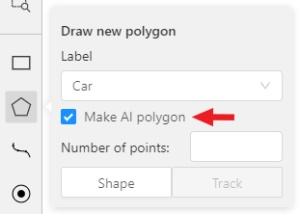
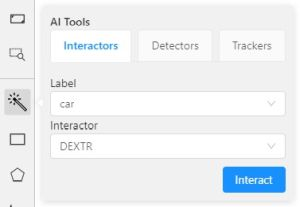
Add item AI Tools in User Guide (#2224)
* update user_guide.md and update images

* rename image188

* resizing image114 and image187

* Fix typos in user_guide.md

diff --git a/cvat/apps/documentation/user_guide.md b/cvat/apps/documentation/user_guide.md
@@ -24,6 +24,7 @@
   - [Shape mode (advanced)](#shape-mode-advanced)
   - [Track mode (advanced)](#track-mode-advanced)
   - [Attribute annotation mode (advanced)](#attribute-annotation-mode-advanced)
+  - [AI Tools](#ai-tools)
   - [Annotation with rectangle by 4 points](#annotation-with-rectangle-by-4-points)
   - [Annotation with polygons](#annotation-with-polygons)
   - [Annotation with polylines](#annotation-with-polylines)
@@ -1021,6 +1022,55 @@ or shortcuts:
 In order to change the zoom level, go to settings (press ``F3``)
 in the workspace tab and set the value Attribute annotation mode (AAM) zoom margin in px.
 
+## AI Tools
+
+The tool is designed for semi-automatic and automatic annotation using DL models.
+The tool is available only if there is a corresponding model.
+For more details about DL models read the [Models](#models) section.
+
+### Interactors
+
+Interactors are used to create a polygon semi-automatically.
+Supported DL models are not bound to the label and can be used for any objects.
+To create a polygon usually you need to use regular or positive points.
+For some kinds of segmentation negative points are available.
+Positive points are the points related to the object.
+Negative points should be placed outside the boundary of the object.
+In most cases specifying positive points alone is enough to build a polygon.
+
+- Before you start, select the magic wand on the controls sidebar and go to the ``Interactors`` tab.
+  Then select a label for the polygon and a required DL model.
+
+  ![](static/documentation/images/image114.jpg)
+
+- Click ``Interact`` to enter the interaction mode. Now you can place positive and/or negative points.
+  Left click creates a positive point and right click creates a negative point.
+  ``Deep extreme cut`` model requires a minimum of 4 points. After you set 4 positive points,
+  a request will be sent to the server and when the process is complete a polygon will be created.
+  If you are not satisfied with the result, you can set additional points or remove points by left-clicking on it.
+  If you want to postpone the request and create a few more points, hold down ``Ctrl`` and continue,
+  the request will be sent after the key is released.
+
+  ![](static/documentation/images/image188.jpg)
+
+- To finish interaction, click on the icon on the controls sidebar or press ``N`` on your keyboard.
+
+- When the object is finished, you can edit it like a polygon.
+  You can read about editing polygons in the [Annotation with polygons](#annotation-with-polygons) section.
+
+### Detectors
+
+Detectors are used to automatically annotate one frame. Supported DL models are suitable only for certain labels.
+
+- Before you start, click the magic wand on the controls sidebar and select the Detectors icon tab.
+  You need to match the labels of the DL model (left column) with the labels in your task (right column).
+  Then click ``Annotate``.
+
+  ![](static/documentation/images/image187.jpg)
+
+- This action will automatically annotates one frame.
+  In the [Automatic annotation](#automatic-annotation) section you can read how to make automatic annotation of all frames.
+
 ## Annotation with rectangle by 4 points
 It is an efficient method of bounding box annotation, proposed
 [here](https://arxiv.org/pdf/1708.02750.pdf).
@@ -1107,21 +1157,6 @@ Below you can see results with opacity and black stroke:
 
 If you need to annotate small objects, increase ``Image Quality`` to
 ``95`` in ``Create task`` dialog for your convenience.
-
-### Make AI polygon
-
-Used to create a polygon semi-automatically.
-- Before starting, you have to make sure that the ``Make AI polygon`` is selected.
-
-  ![](static/documentation/images/image114.jpg)
-
-- Click ``Shape`` to enter drawing mode. Now you can start annotating the necessary area.
-  A shape must consist of 4 points minimum. You can set a fixed number of points in the ``Number of points`` field,
-  then drawing will be stopped automatically. You can zoom in/out and move while drawing.
-- Press ``N`` again to finish marking the area. At the end of Auto Segmentation,
-  a shape is created and you can work with it as a polygon.
-
-  ![](static/documentation/images/gif009_detrac.gif)
 
 ### Edit polygon
 
